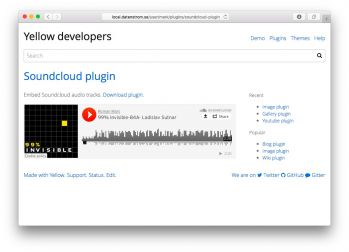
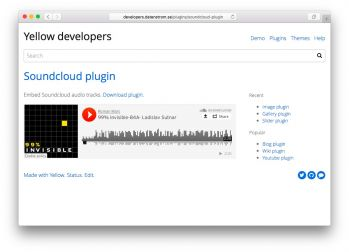
Hello developers (system update)

diff --git a/system/plugins/slider.js b/system/plugins/slider.js
@@ -1,0 +1,82 @@
+// Copyright (c) 2013-2016 Datenstrom, http://datenstrom.se
+// This file may be used and distributed under the terms of the public license.
+
+// Slider plugin 0.6.1
+var initFlickityFromDOM = function() {
+	
+	// Parse slider options from DOM
+	var parseOptions = function(el) {
+		var keyNames = ['prevNextButtons', 'pageDots', 'arrowShape', 'lazyLoad', 'autoPlay', 'initialIndex',
+					'draggable', 'clickable', 'freeScroll', 'wrapAround', 'asNavFor', 'cellSelector', 'cellAlign'],
+		numKeyNames = keyNames.length,
+		numAttributes = el.attributes.length,
+		options = {};
+		for(var i = 0; i < numAttributes; i++) {
+			var att = el.attributes[i], key, value;
+			if(att.nodeName.substring(0, 5) == 'data-') {
+				key = att.nodeName.substring(5);
+				for(var j = 0; j < numKeyNames; j++) {
+					if (key == keyNames[j].toLowerCase()) {
+						key = keyNames[j];
+						break;
+					}
+				}
+				switch(att.nodeValue)
+				{
+					case 'true': value = true; break;
+					case 'false': value = false; break;
+					default: value = att.nodeValue;
+				}
+				options[key] = value;
+			}
+		}
+		return options;
+	};
+	
+	// Parse slider and picture index from URL
+	var parseHash = function() {
+		var hash = window.location.hash.substring(1),
+		params = {};
+		if(hash.length < 5) {
+			return params;
+		}
+		var vars = hash.split('&');
+		for (var i = 0; i < vars.length; i++) {
+			if(!vars[i]) {
+				continue;
+			}
+			var pair = vars[i].split('=');
+			if(pair.length < 2) {
+				continue;
+			}
+			params[pair[0]] = pair[1];
+		}
+		return params;
+	};	
+	
+	// Initialise slider elements and bind events
+	var sliders = {};
+	var sliderElements = document.querySelectorAll( '.flickity' );
+	for(var i = 0, l = sliderElements.length; i < l; i++) {
+		var options = parseOptions(sliderElements[i]);
+		sliders[i] = new Flickity(sliderElements[i], options);
+		if(options.clickable) {
+			sliders[i].on('staticClick', function() { this.next(options.wrapAround) });
+		}
+	}
+	
+	// Check if URL contains slider and picture index
+	if(sliderElements.length)
+	{
+		var params = parseHash();
+		if(params.sid>0 && params.sid<=sliderElements.length && params.pid>0) {
+			sliders[params.sid-1].select(params.pid-1, false, true);
+		}
+	}
+};
+
+if(window.addEventListener) {
+	window.addEventListener('load', initFlickityFromDOM, false);
+} else {
+	window.attachEvent('onload', initFlickityFromDOM);
+}

diff --git a/system/plugins/gallery.js b/system/plugins/gallery.js
@@ -1,5 +1,7 @@
-// Gallery plugin 0.6.2
+// Copyright (c) 2013-2016 Datenstrom, http://datenstrom.se
+// This file may be used and distributed under the terms of the public license.
 
+// Gallery plugin 0.6.2
 var initPhotoSwipeFromDOM = function() {
 	
 	// Parse gallery items from DOM
@@ -11,7 +13,6 @@ var initPhotoSwipeFromDOM = function() {
 		childElements,
 		size,
 		item;
-		
 		for(var i = 0; i < numNodes; i++) {
 			el = thumbElements[i];
 			if(el.nodeType !== 1) {
@@ -38,7 +39,7 @@ var initPhotoSwipeFromDOM = function() {
 	
 	// Parse gallery options from DOM
 	var parseOptions = function(el) {
-		keyNames = ['galleryUID', 'mainClass', 'thumbSquare',
+		var keyNames = ['galleryUID', 'mainClass', 'thumbSquare',
 					'showHideOpacity', 'showAnimationDuration', 'hideAnimationDuration',
 					'bgOpacity', 'allowPanToNext', 'pinchToClose', 'closeOnScroll', 'escKey', 'arrowKeys',
 					'closeEl', 'captionEl', 'fullscreenEl', 'zoomEl', 'shareEl', 'counterEl',
@@ -50,7 +51,6 @@ var initPhotoSwipeFromDOM = function() {
 			tapToClose: true,
 			tapToToggleControls: false,
 		};
-		
 		for(var i = 0; i < numAttributes; i++) {
 			var att = el.attributes[i], key, value;
 			if(att.nodeName.substring(0, 5) == 'data-') {
@@ -77,7 +77,6 @@ var initPhotoSwipeFromDOM = function() {
 	var parseHash = function() {
 		var hash = window.location.hash.substring(1),
 		params = {};
-		
 		if(hash.length < 5) {
 			return params;
 		}
@@ -91,9 +90,6 @@ var initPhotoSwipeFromDOM = function() {
 				continue;
 			}
 			params[pair[0]] = pair[1];
-		}
-		if(params.gid) {
-			params.gid = parseInt(params.gid, 10);
 		}
 		return params;
 	};
@@ -230,17 +226,17 @@ var initPhotoSwipeFromDOM = function() {
 		galleryElements[i].onclick = onClickGallery;
 	}
 	
-	// Check if URL contains gid and pid
+	// Check if URL contains gallery and picture index
 	if(galleryElements.length)
 	{
 		var params = parseHash();
-		if(params.pid && params.gid) {
+		if(params.gid>0 && params.gid<=galleryElements.length && params.pid>0) {
 			openPhotoSwipe( params.pid,  galleryElements[ params.gid - 1 ], true, true );
 		}
 	}
 };
 
-if(window.addEventListener){
+if(window.addEventListener) {
 	window.addEventListener('load', initPhotoSwipeFromDOM, false);
 } else {
 	window.attachEvent('onload', initPhotoSwipeFromDOM);

diff --git a/system/plugins/slider.css b/system/plugins/slider.css
@@ -1,0 +1,6 @@
+/* Slider plugin 0.6.1 */
+
+.flickity-page-dots {
+	position: static;
+	margin: 0.5em 0;
+}

diff --git a/system/plugins/slider.php b/system/plugins/slider.php
@@ -1,0 +1,75 @@
+<?php
+// Copyright (c) 2013-2016 Datenstrom, http://datenstrom.se
+// This file may be used and distributed under the terms of the public license.
+
+// Slider plugin
+class YellowSlider
+{
+	const Version = "0.6.1";
+	var $yellow;			//access to API
+	
+	// Handle initialisation
+	function onLoad($yellow)
+	{
+		$this->yellow = $yellow;
+		$this->yellow->config->setDefault("sliderCdn", "https://cdnjs.cloudflare.com/ajax/libs/flickity/1.2.0/");
+		$this->yellow->config->setDefault("sliderStyle", "flickity");
+		$this->yellow->config->setDefault("sliderAutoplay", "false");
+	}
+	
+	// Handle page content parsing of custom block
+	function onParseContentBlock($page, $name, $text, $shortcut)
+	{
+		$output = NULL;
+		if($name=="slider" && $shortcut)
+		{
+			list($pattern, $style, $size, $autoplay) = $this->yellow->toolbox->getTextArgs($text);
+			if(empty($style)) $style = $this->yellow->config->get("sliderStyle");
+			if(empty($size)) $size = "100%";
+			if(empty($autoplay)) $autoplay = $this->yellow->config->get("sliderAutoplay");
+			if(empty($pattern))
+			{
+				$files = $page->getFiles(true);
+			} else {
+				$images = $this->yellow->config->get("imageDir");
+				$files =  $this->yellow->files->index(true, true)->match("#$images$pattern#");
+			}
+			if(count($files) && $this->yellow->plugins->isExisting("image"))
+			{
+				$page->setLastModified($files->getModified());
+				$output = "<div class=\"".htmlspecialchars($style)."\" data-prevnextbuttons=\"false\" data-clickable=\"true\" data-wraparound=\"true\" data-autoplay=\"".htmlspecialchars($autoplay)."\">\n";
+				foreach($files as $file)
+				{
+					list($widthInput, $heightInput) = $this->yellow->toolbox->detectImageInfo($file->fileName);
+					list($src, $width, $height) = $this->yellow->plugins->get("image")->getImageInfo($file->fileName, $size, $size);
+					$output .= "<img src=\"".htmlspecialchars($src)."\" width=\"".htmlspecialchars($width)."\" height=\"".
+						htmlspecialchars($height)."\" alt=\"".basename($file->getLocation())."\" title=\"".
+						basename($file->getLocation())."\" />\n";
+				}
+				$output .= "</div>";
+			} else {
+				$page->error(500, "Slider '$pattern' does not exist!");
+			}
+		}
+		return $output;
+	}
+	
+	// Handle page extra HTML data
+	function onExtra($name)
+	{
+		$output = NULL;
+		if($name == "header")
+		{
+			$sliderCdn = $this->yellow->config->get("sliderCdn");
+			$pluginLocation = $this->yellow->config->get("serverBase").$this->yellow->config->get("pluginLocation");
+			$output = "<link rel=\"stylesheet\" type=\"text/css\" media=\"all\" href=\"{$sliderCdn}flickity.css\" />\n";
+			$output .= "<link rel=\"stylesheet\" type=\"text/css\" media=\"all\" href=\"{$pluginLocation}slider.css\" />\n";
+			$output .= "<script type=\"text/javascript\" src=\"{$sliderCdn}flickity.pkgd.min.js\"></script>\n";
+			$output .= "<script type=\"text/javascript\" src=\"{$pluginLocation}slider.js\"></script>\n";
+		}
+		return $output;
+	}
+}
+
+$yellow->plugins->register("slider", "YellowSlider", YellowSlider::Version);
+?>

diff --git a/system/plugins/stats.php b/system/plugins/stats.php
@@ -5,7 +5,7 @@
 // Statistics command plugin
 class YellowStats
 {
-	const Version = "0.6.4";
+	const Version = "0.6.5";
 	var $yellow;			//access to API
 	var $days;				//detected days
 	var $views;				//detected views
@@ -132,9 +132,12 @@ class YellowStats
 							{
 								if(!preg_match("#^$locationSelf#", $location)) continue;
 								if(!preg_match("#^$locationSelf$locationMatch#", $location)) continue;
-								if(preg_match("#^$locationSelf(.*)/($locationIgnore)/#", $location)) continue;
-								if(preg_match("#^$locationSelf(.*)/($robotsFile)$#", $location)) continue;
-								if(preg_match("#^$locationSelf(.*)/($faviconFile)$#", $location)) continue;								
+								if($locationMatch == "/")
+								{
+									if(preg_match("#^$locationSelf(.*)/($locationIgnore)/#", $location)) continue;
+									if(preg_match("#^$locationSelf(.*)/($robotsFile)$#", $location)) continue;
+									if(preg_match("#^$locationSelf(.*)/($faviconFile)$#", $location)) continue;
+								}
 								if(preg_match("#$spamFilter#i", $referer.$userAgent)) continue;
 								if($status>=301 && $status<=303) continue;
 								if($status < 400)
